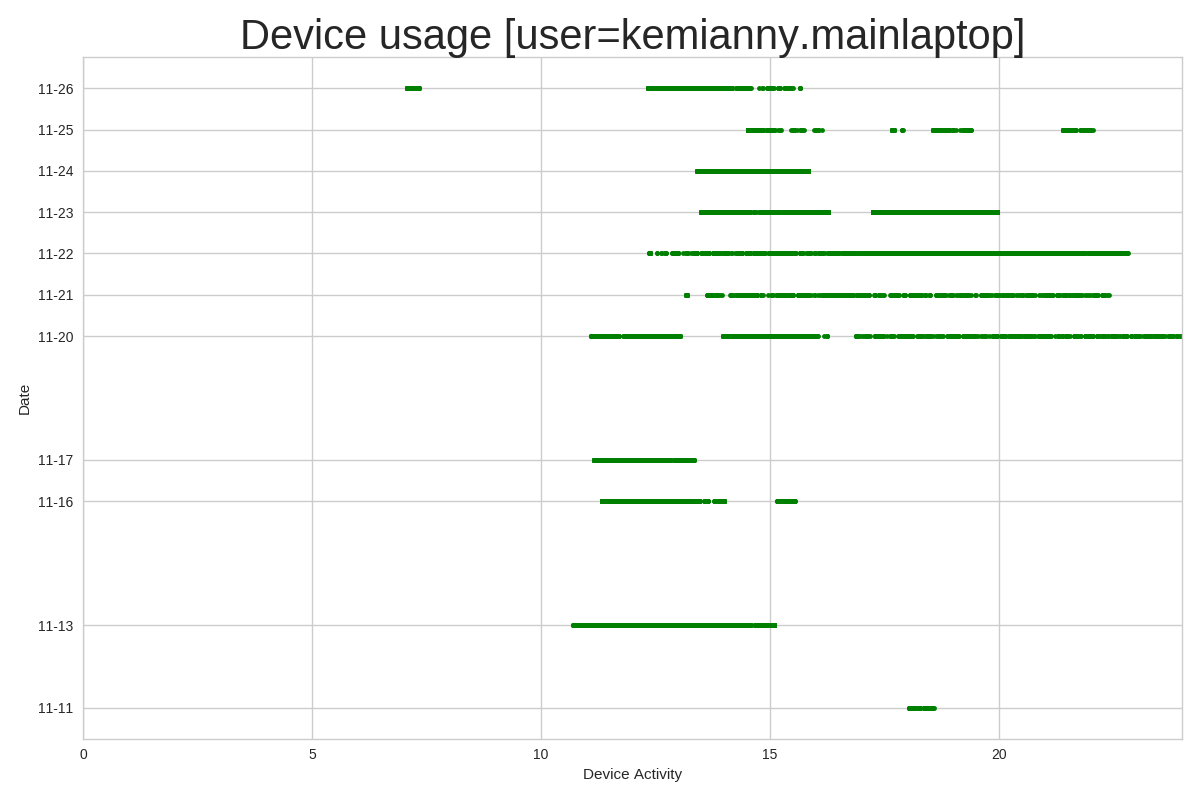
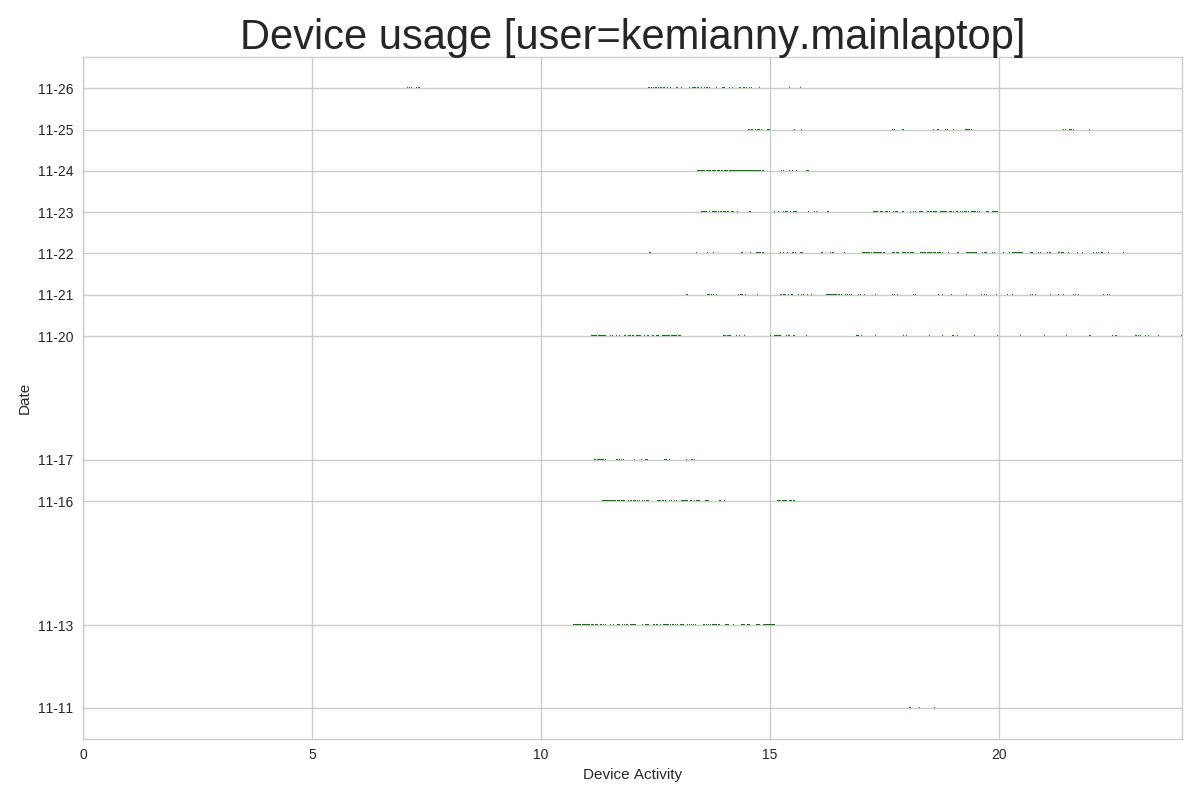
problem with loop seems to be solved. recalculating gaps per url

diff --git a/inter_event_time_theoretical_count.py b/inter_event_time_theoretical_count.py
@@ -26,8 +26,6 @@ Session = sessionmaker(bind=engine)
 ses = Session()
 users = ses.query(User)
 
-gap_interval = 10*60
-
 def main():
     for user in users:
         print ('user : ' + user.username)
@@ -88,11 +86,32 @@ def main():
 
             plot_counts_ditr(theoretic_count[idt], real_count[idt], idt)
 
+def calculate_gap_interval(traces_list):
+    print len(traces_list)
+    iat_list = []
+    for i in range(0, len(traces_list)-1):
+        iat = (traces_list[i+1]-traces_list[i]).total_seconds()
+        iat = get_approximation(iat)
+        iat_list.append(iat)
+
+    (iats,cumulative_perc) = datautils.aecdf(iat_list)
+
+    cont = 0
+    for elem in cumulative_perc:
+        if elem > 0.9:
+            print 'MAX INTERVAL ' + str(iats[cont])
+            return iats[cont] 
+        cont += 1
+
+    return iats[cont-1]
+
 
 def get_interval_list(traces_list):
 
     intv = 0
     interval_list = defaultdict(list)
+    gap_interval = calculate_gap_interval(traces_list)
+    print 'gap interval ' + str(gap_interval)
 
     interval_list[intv].append(traces_list[0])
     for i in range(0, len(traces_list)-1):
@@ -110,9 +129,6 @@ def calculate_average_periodicity(interval_dict):
     real_count = []
 
     for key in interval_dict.keys():
-        #if key != 5:
-            #continue
-
         distrib_dict = get_interval_distribution(key, interval_dict)
 
         for iat_total in distrib_dict.keys():
@@ -150,6 +166,11 @@ def get_free_spikes_traces(interval_dict, url_domain):
     filtered_traces = []
     eliminate_url = False
 
+    for key, values in interval_dict.iteritems():
+        print key
+        for elem in values:
+            print elem
+
     for key in interval_dict.keys():
 
         if url_domain == 'stream1.bskyb.fyre.co':#'http.00.s.sophosxl.net':#'content.very.co.uk':
@@ -160,29 +181,39 @@ def get_free_spikes_traces(interval_dict, url_domain):
                 iat_list.append(iat)
             plot_cdf_interval_times(iat_list, 'kemianny'+str(key), 'main_laptop', 'figs_CDF_theoretic_counts', 'stream1.bskyb.fyre.co')
 
-
         distrib_dict = get_interval_distribution(key, interval_dict)
         filtered_interval_list = interval_dict[key]
+
+        #if True:#url_domain == 'fupdates.trusteer.com':
+            #print 'distrib_dict ' + str(distrib_dict)
+            #print 'interval_list ' + str(filtered_interval_list)
+
+        """timsts = filtered_interval_list
+        for timst in timsts:
+            if timst.day == 13:
+                print str(timst) + ' ' + str(url_domain)"""
+
 
         for iat_total in distrib_dict.keys():
             #if potential spike
 
-            if url_domain == 'http.00.s.sophosxl.net':#'stream1.bskyb.fyre.co':#'content.very.co.uk':
+            if url_domain == 'fupdates.trusteer.com':#'http.00.s.sophosxl.net':#'stream1.bskyb.fyre.co':#'content.very.co.uk':
                 print '===='
                 print url_domain
                 print 'interval size: ' + str(iat_total)
                 print 'appears this many times: ' + str(distrib_dict[iat_total])
                 print 'total number of intervals: ' + str(distrib_dict['total'])
-
+                #print 'rate: ' + str(distrib_dict[iat_total]/float(distrib_dict['total'])) 
 
             #agressive strategy
-            #if distrib_dict[iat_total] >= 5:
+            #if iat_total != 'total' and distrib_dict[iat_total] >= 5:
                 #eliminate_url = True
 
             if iat_total != 'total' and \
-               distrib_dict['total'] > 5 and \
-               (distrib_dict[iat_total]/float(distrib_dict['total'])) > 0.40:
-
+               ((distrib_dict['total'] > 1 and distrib_dict['total'] <= 5 and \
+               (distrib_dict[iat_total]/float(distrib_dict['total'])) > 0.50) or \
+                (distrib_dict['total'] > 5 and \
+                 (distrib_dict[iat_total]/float(distrib_dict['total'])) > 0.30)):#0.40:
                 if iat_total != 0:
                     timsts = interval_dict[key]
                     beg_block = timsts[0]
@@ -195,9 +226,9 @@ def get_free_spikes_traces(interval_dict, url_domain):
                     real_count.append(re_count)
 
                     #agressive strategy
-                    eliminate_url = True
+                    #eliminate_url = True
 
-                    if url_domain == 'stream1.bskyb.fyre.co':
+                    if url_domain == 'fupdates.trusteer.com':
                         print '===='
                         print url_domain
                         print 'interval size: ' + str(iat_total)
@@ -208,17 +239,22 @@ def get_free_spikes_traces(interval_dict, url_domain):
                     if theo_count <= 10:
                         error_margin = 0.2
                     elif theo_count > 10 and theo_count <= 100:
-                        error_margin = 0.1
+                        error_margin = 0.15
                     else:
-                        error_margin = 0.05
-                    if url_domain == 'stream1.bskyb.fyre.co':
+                        error_margin = 0.1
+
+                    if url_domain == '=====star.c10r.facebook.com':
                         print 'recont ' + str(re_count)
                         print 'limit ' + str(theo_count - theo_count*error_margin)
                     #take whole interval off
                     if re_count > (theo_count - theo_count*error_margin):
+                        print 'AQUI'
                         filtered_interval_list = []
+                        break
                     #take only spike off
                     else:
+                        print 'ENTROU'
+                        print filtered_interval_list
                         filtered_interval_list = eliminate_spikes(filtered_interval_list, iat_total)
 
         filtered_traces.append(filtered_interval_list)        
@@ -235,7 +271,14 @@ def get_free_spikes_traces(interval_dict, url_domain):
             iat_list.append(iat)
             plot_cdf_interval_times(iat_list, 'kemianny'+str(key), 'main_laptop', 'figs_CDF_theoretic_counts', 'stream1.bskyb.fyre.co')"""
 
+    timsts = filtered_traces
+    for timst in timsts:
+        if timst.day == 13 and timst.hour > 11 and timst.hour < 15:
+            if (timst.hour == 11 and timst.minute < 38) or (timst.hour == 14 and timst.minute > 25):
+                continue
+            print 'not filtered ' + str(timst) + ' ' + str(url_domain)
 
+    print 'SAIU'
     #print filtered_traces
     return filtered_traces
 
@@ -269,9 +312,6 @@ def get_interval_distribution(key, interval_list):
     if len(timsts) > 1:
         for i in range (0, len(timsts)-1):
             iat = (timsts[i+1]-timsts[i]).total_seconds()
-
-            #round interval
-            #iat = round(iat)
             iat = get_approximation(iat)
 
             if iat not in interval_dist.keys():

diff --git a/inter_event_time_by_url_analysis.py b/inter_event_time_by_url_analysis.py
@@ -88,15 +88,16 @@ def get_filtered_traces():
             idt = user_id[0]
 
             #if idt != 'bowen.laptop' and idt != 'bridgeman.laptop2' and idt != 'bridgeman.stuartlaptop' and idt != 'chrismaley.loungepc' and idt != 'chrismaley.mainpc' and idt != 'clifford.mainlaptop' and idt != 'gluch.laptop' and idt != 'kemianny.mainlaptop' and idt != 'neenagupta.workpc':
-            if idt != 'clifford.mainlaptop':#'kemianny.mainlaptop': 
+            if idt != 'kemianny.mainlaptop': 
                 continue
 
             for row in ses.execute(text(sql_url).bindparams(d_id = elem_id)):
-                if row[0] and not (is_in_blacklist(row[0], blacklist)):
+                if row[0]: #and not (is_in_blacklist(row[0], blacklist)):
                     valid_url_list.append(row[0])
             #valid_url_list.append('dns')
 
             for valid_url in valid_url_list:
+                print '=========DOMAIN ' + str(valid_url)
                 cdf_dist = defaultdict(int)
                 total_url_traces = 0
                 #get inter event times per url
@@ -122,33 +123,32 @@ def get_filtered_traces():
                         traces_dict[valid_url].append(row[1])
                         user_traces_dict[idt].append(row[1])
                     #filter by > 1s and percentage of iat 
-                    #if iat > 1:
-                    traces_dict[valid_url].append(row[0])
+                    if iat > 1:
+                        traces_dict[valid_url].append(row[0])
 
-                """#eliminate spikes
-                if traces_dict[valid_url]:
+                #eliminate spikes
+                if traces_dict[valid_url] and len(traces_dict[valid_url]) > 1:
 
                     if valid_url == 'stream1.bskyb.fyre.co':
                         print 'BEFORE filtering'
                         print len(traces_dict[valid_url])
                         #for elem in traces_dict[valid_url]:
                             #print elem
-
+                    print 'CHAMOU'
                     traces_dict[valid_url] = filter_spikes(traces_dict[valid_url], valid_url)
                     if valid_url == 'stream1.bskyb.fyre.co':
                         print 'after FILTERING'
                         print len(traces_dict[valid_url])
                         #for elem in traces_dict[valid_url]:
-                            #print elem"""
+                            #print elem
             #get inter event times per query domain
             valid_dns_list = []
             for dnsreq in ses.execute(text(sql_domain).bindparams(d_id = elem_id)):
                 if not dnsreq[0]:
                     continue
                 dom = dnsreq[0]
-                if dom.rsplit('.')[-1] != 'Home' and not (is_in_blacklist(dom, blacklist)):
-                    print 'filtered dom'
-                    valid_dns_list.append(dom)
+                #if dom.rsplit('.')[-1] != 'Home' and not (is_in_blacklist(dom, blacklist)):
+                valid_dns_list.append(dom)
             print len(valid_dns_list)
             
             #========= filtered by domain =============
@@ -185,13 +185,14 @@ def get_filtered_traces():
                     if row_number == 2:
                         user_traces_dict[idt].append(row[1])
                         traces_dict[dnsreq].append(row[1])
-                    #if iat > 1:
-                    user_traces_dict[idt].append(row[0])
-                    traces_dict[dnsreq].append(row[0])
+                    if iat > 1:
+                        user_traces_dict[idt].append(row[0])
+                        traces_dict[dnsreq].append(row[0])
 
                 #eliminate spikes
-                #if traces_dict[dnsreq]:
-                    #traces_dict[dnsreq] = filter_spikes(traces_dict[dnsreq], dnsreq)
+                if traces_dict[dnsreq] and len(traces_dict[dnsreq]) > 1:
+                    print 'CHAMOU'
+                    traces_dict[dnsreq] = filter_spikes(traces_dict[dnsreq], dnsreq)
 
             if traces_dict:
                 plot_traces(traces_dict, valid_url_list, idt)#user.username, devs[int(elem_id)])
@@ -202,24 +203,24 @@ def filter_spikes(traces_list, url_domain):
 
     pre_filtered_list = []
     cont = 0
-    while pre_filtered_list != traces_list and traces_list:
-        if url_domain == 'stream1.bskyb.fyre.co':
-            print 'antes'
-            print  len(traces_list)
+
+    while pre_filtered_list != traces_list and len(traces_list) > 1:
         pre_filtered_list = traces_list
+        print 'LEN'
+        print len(traces_list)
         interval_list = get_interval_list(traces_list)
         traces_list = get_free_spikes_traces(interval_list, url_domain)
         cont +=1
-        if url_domain == 'stream1.bskyb.fyre.co':
-            print 'depois'
-            print len(traces_list)
+
         #if url_domain == 'su.ff.avast.com':
             #print interval_list
-        if traces_list != pre_filtered_list and url_domain == 'stream1.bskyb.fyre.co':
+        if traces_list != pre_filtered_list and url_domain == '===u-ads.adap.tv':
             print '===== round ' + str(cont)
             print url_domain
             print len(pre_filtered_list)
             print len(traces_list)
+            #for elem in traces_list:
+                #print elem
 
     return traces_list
 
@@ -238,7 +239,7 @@ def plot_traces(traces_dict, url_list, user_id):
     hfmt = dates.DateFormatter('%m-%d')
     ax.yaxis.set_major_formatter(hfmt)
 
-    ax.plot(x,y, '.g')
+    ax.plot(x,y, ',g')
 
     ax.set_title('Device usage [user=%s]'%(user_id), fontsize = 30)#, device=%s]'%(username, platform))
     ax.set_ylabel('Date')
